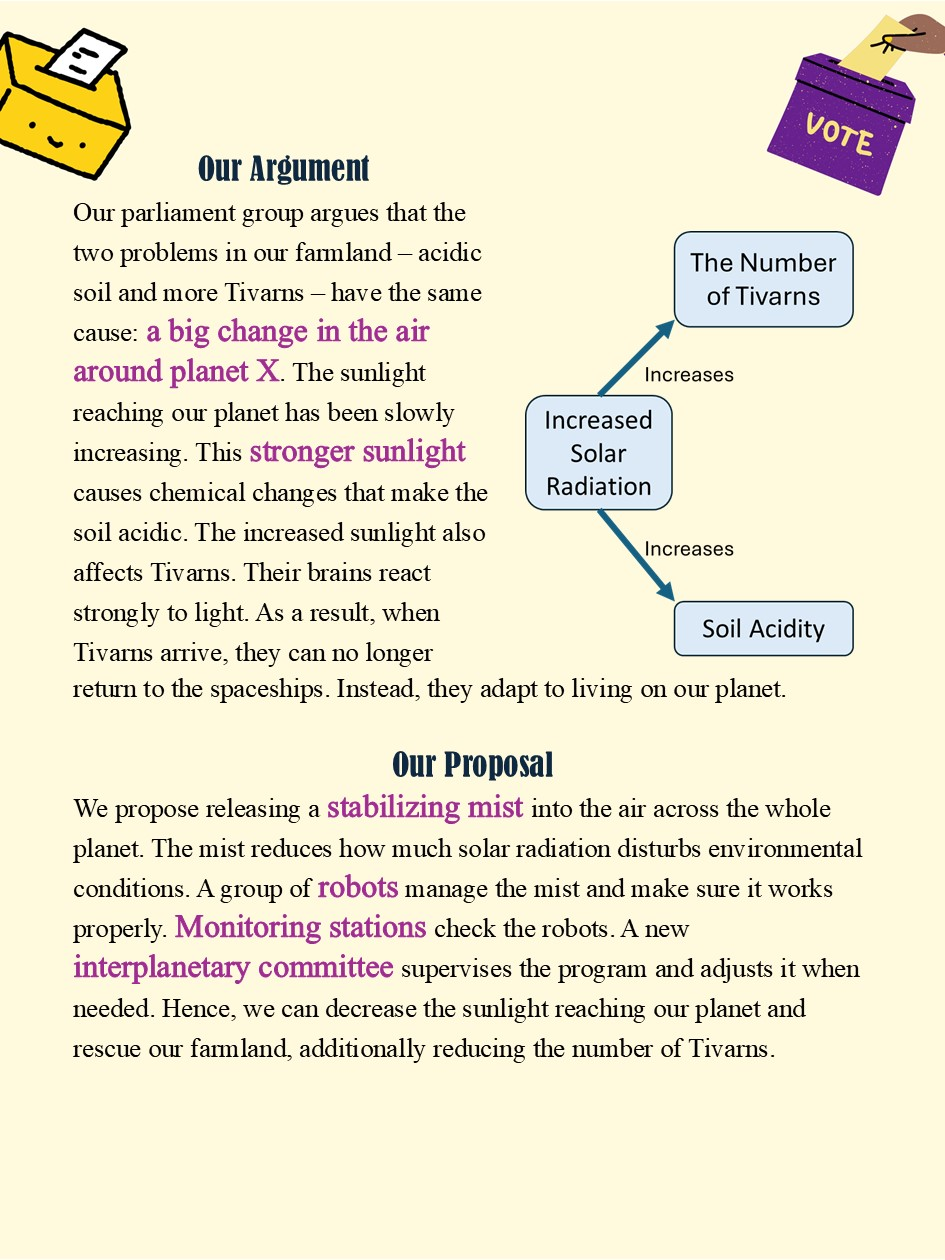
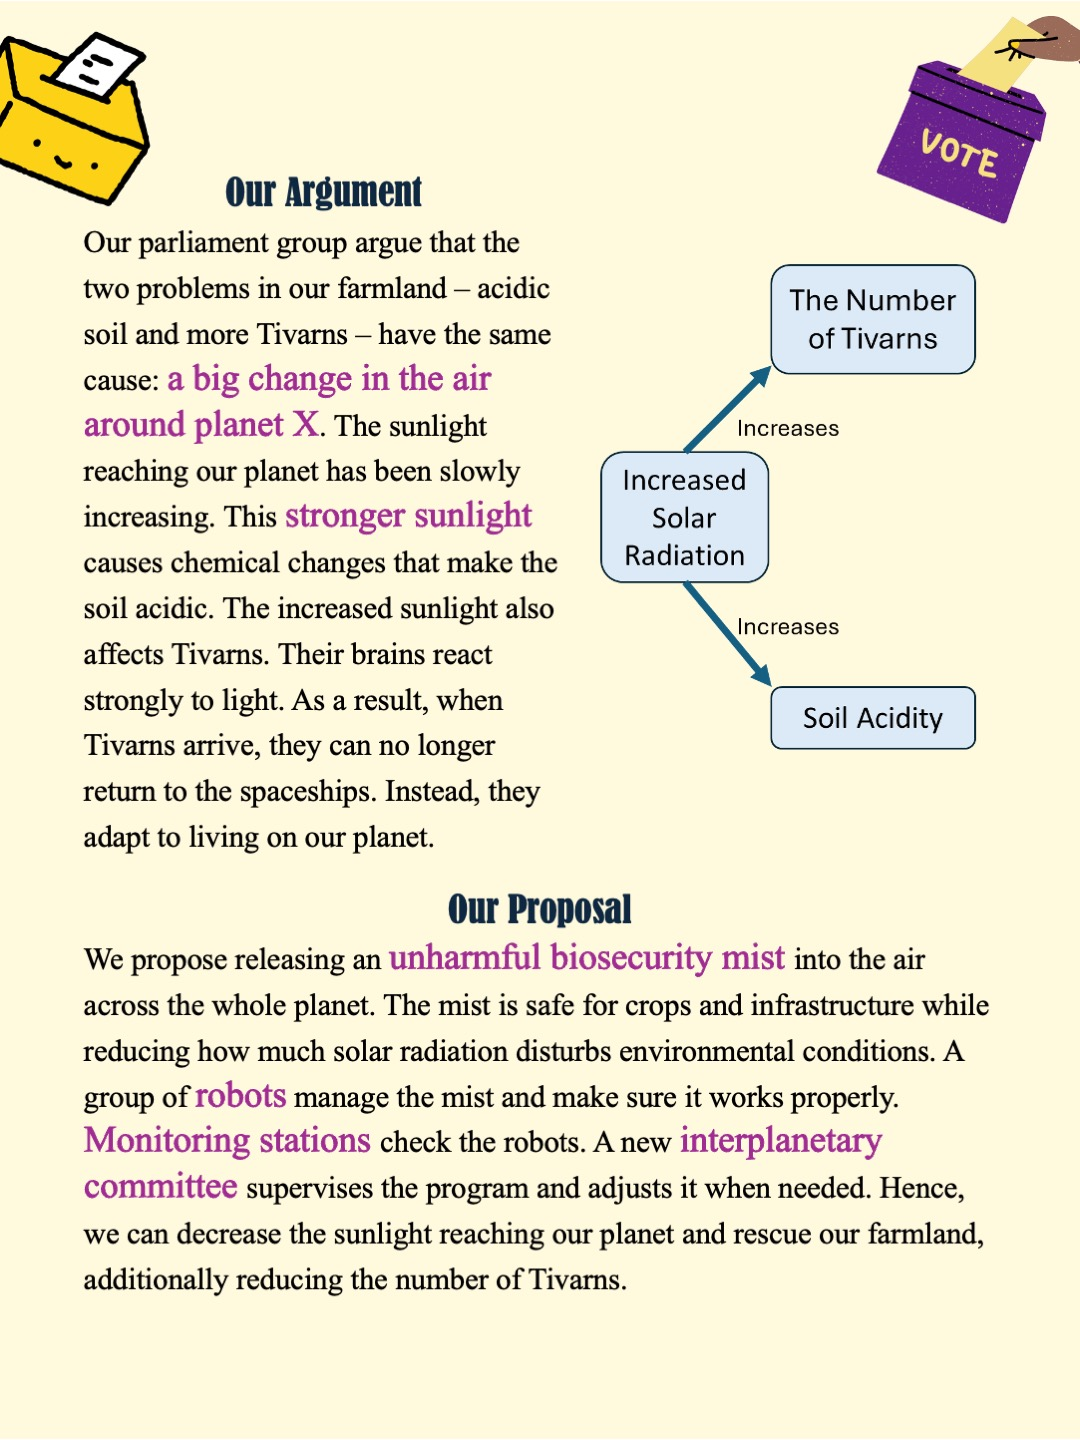
Background and vote0 update

diff --git a/_templates/global/BG.html b/_templates/global/BG.html
@@ -1,5 +1,5 @@
 <p>You are a citizen of Planet X, a technologically advanced world that has flourished for generations. The planet has long relied on stable agricultural systems to ensure food security and economic prosperity. </p>
 
-<p>The planet possesses advanced robotics technology capable of adapting to various applications. However, the last major technological breakthrough occurred 20 years ago, and the robotics can only learn new tasks under human supervision. Tech firms have also developed artificial micro-particles in the air, which are called technological mist, for various applications. In addition, Planet X maintains a moderate level of cooperation with its neighbors, including tourism and trade agreements. However, no interplanetary political unions or coordinating committees have been established in the past.</p>
+<p>The planet possesses advanced robotics technology capable of adapting to various applications. However, the last major technological breakthrough occurred 20 years ago, and the robotics can only learn new tasks under human supervision. Tech firms have also developed artificial micro-particles in the air, which are called technological mist, for various applications. In addition, Planet X maintains a moderate level of cooperation with its neighbors, including tourism and trade agreements. However, no interplanetary political unions or coordinating committees have been established in the past. Scientists have also observed that the sunlight reaching Planet X has been slowly increasing in recent years. </p>
 
 <p>Recently, two issues have emerged that are dividing public opinion on Planet X. Farmers have reported increasing <b>soil acidity</b>, causing reduced crop yields. At the same time, they have also reported that some <b>creatures from other planets</b>, known as <b>Tivarns</b>, have appeared across farmland regions. These creatures were <b>unintentionally transported by automated spaceships</b> that frequently travel between Planet X and Planet Y.</p>

diff --git a/_templates/global/BG_plant.html b/_templates/global/BG_plant.html
@@ -1,5 +1,5 @@
 <p>You are a citizen of Planet X, a technologically advanced world that has flourished for generations. The planet has long relied on stable agricultural systems to ensure food security and economic prosperity. </p>
 
-<p>The planet possesses advanced robotics technology capable of adapting to various applications. However, the last major technological breakthrough occurred 20 years ago, and the robotics can only learn new tasks under human supervision. Tech firms have also developed artificial micro-particles in the air, which are called technological mist, for various applications. In addition, Planet X maintains a moderate level of cooperation with its neighbors, including tourism and trade agreements. However, no interplanetary political unions or coordinating committees have been established in the past.</p>
+<p>The planet possesses advanced robotics technology capable of adapting to various applications. However, the last major technological breakthrough occurred 20 years ago, and the robotics can only learn new tasks under human supervision. Tech firms have also developed artificial micro-particles in the air, which are called technological mist, for various applications. In addition, Planet X maintains a moderate level of cooperation with its neighbors, including tourism and trade agreements. However, no interplanetary political unions or coordinating committees have been established in the past. Scientists have also observed that the sunlight reaching Planet X has been slowly increasing in recent years. </p>
 
 <p>Recently, two issues have emerged that are dividing public opinion on Planet X. Farmers have reported increasing <b>soil acidity</b>, causing reduced crop yields. At the same time, they have also reported that some <b>plants from other planets</b>, known as <b>Tivarns</b>, have appeared across farmland regions. These plants were <b>accidentally transported by automated spaceships</b> that frequently travel between Planet X and Planet Y.</p>

diff --git a/EX_plant/__init__.py b/EX_plant/__init__.py
@@ -34,7 +34,7 @@ def cq_bg_error_message(player, value):
 
 def perform_success_draw(player):
     # Luck draw for 0.1% probability to solve the problem
-    draw = random.randint(1, 1000)
+    draw = random.randint(1, 2)
     player.success = 1 if draw == 1 else 0
 
 
